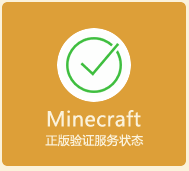
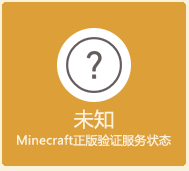
Add support for checking Mojang Auth Server status

diff --git a/image.js b/image.js
@@ -5,9 +5,21 @@ var path = require('path');
 var state = require('./state');
 var canvas = require('canvas');
 
+// returns a promise which will contain a png
 function drawDirect (fileName) {
   return new Promise(function (resolve, reject) {
     resolve(fs.createReadStream(path.join(__dirname, 'images', fileName)));
+  });
+}
+
+// returns a promise which will contain a png
+function drawSoftwareMojangState () {
+  return state.getMojangAuthStatus().then(function (status) {
+    try {
+      return fs.createReadStream(__dirname + '/images/software-mojang-' + status.authserver + '.png');
+    } catch (e) {
+      return fs.createReadStream(__dirname + '/images/software-mojang.png');
+    }
   });
 }
 
@@ -75,6 +87,7 @@ module.exports = {
   drawDirect: drawDirect,
   drawSoftwareHeader: drawSoftwareHeader,
   drawDevelopmentHeader: drawDevelopmentHeader,
+  drawSoftwareMojangState: drawSoftwareMojangState,
   increaseSoftwareViews: state.increaseSoftwareViews,
   increaseDevelopmentViews: state.increaseDevelopmentViews
 }

diff --git a/index.js b/index.js
@@ -31,7 +31,7 @@ var softwareFileMap = {
   'download.png': image.drawDirect.bind(image, 'software-download.png'),
   'rule.png': image.drawDirect.bind(image, 'software-rule.png'),
   'recommendation.png': image.drawDirect.bind(image, 'recommendation-list.png'),
-  'mojang.png': image.drawDirect.bind(image, 'software-mojang.png'),
+  'mojang.png': image.drawSoftwareMojangState.bind(image),
   'header.png': function (isRealVisit) {
     if (isRealVisit) {
       return image.increaseSoftwareViews().then(image.drawSoftwareHeader);
